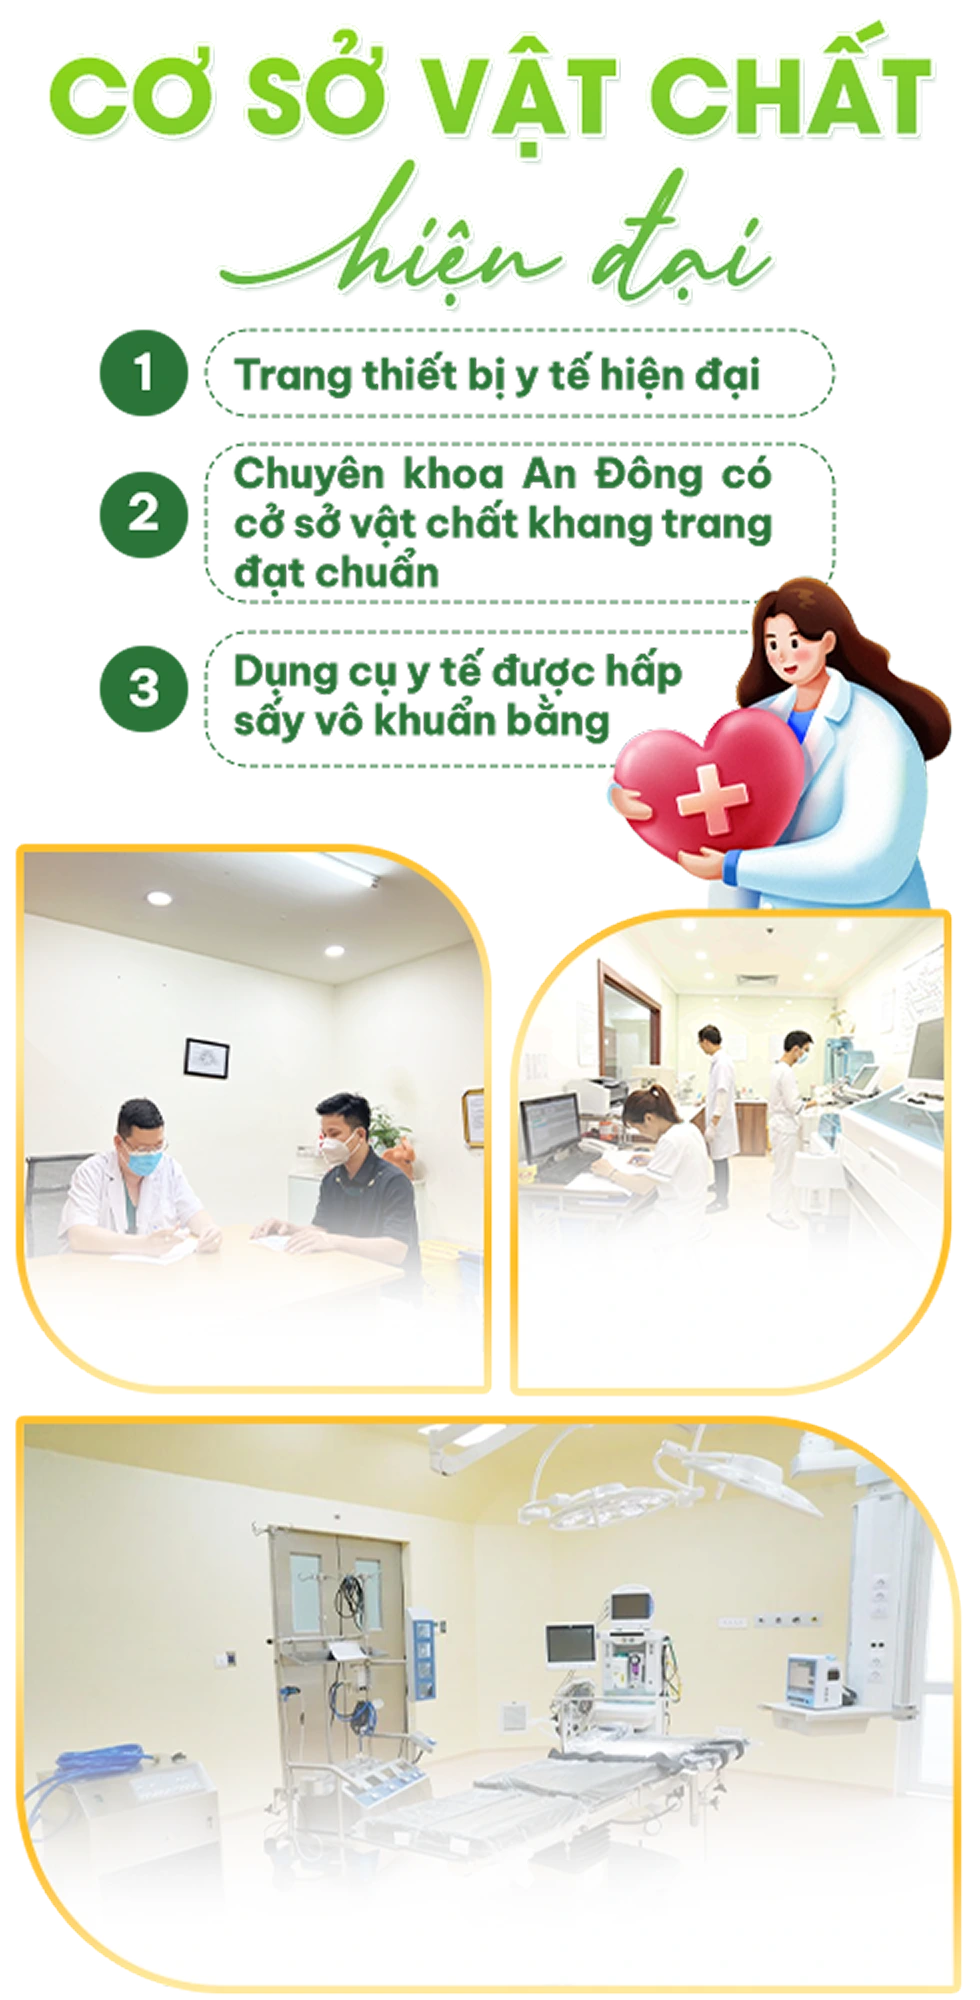
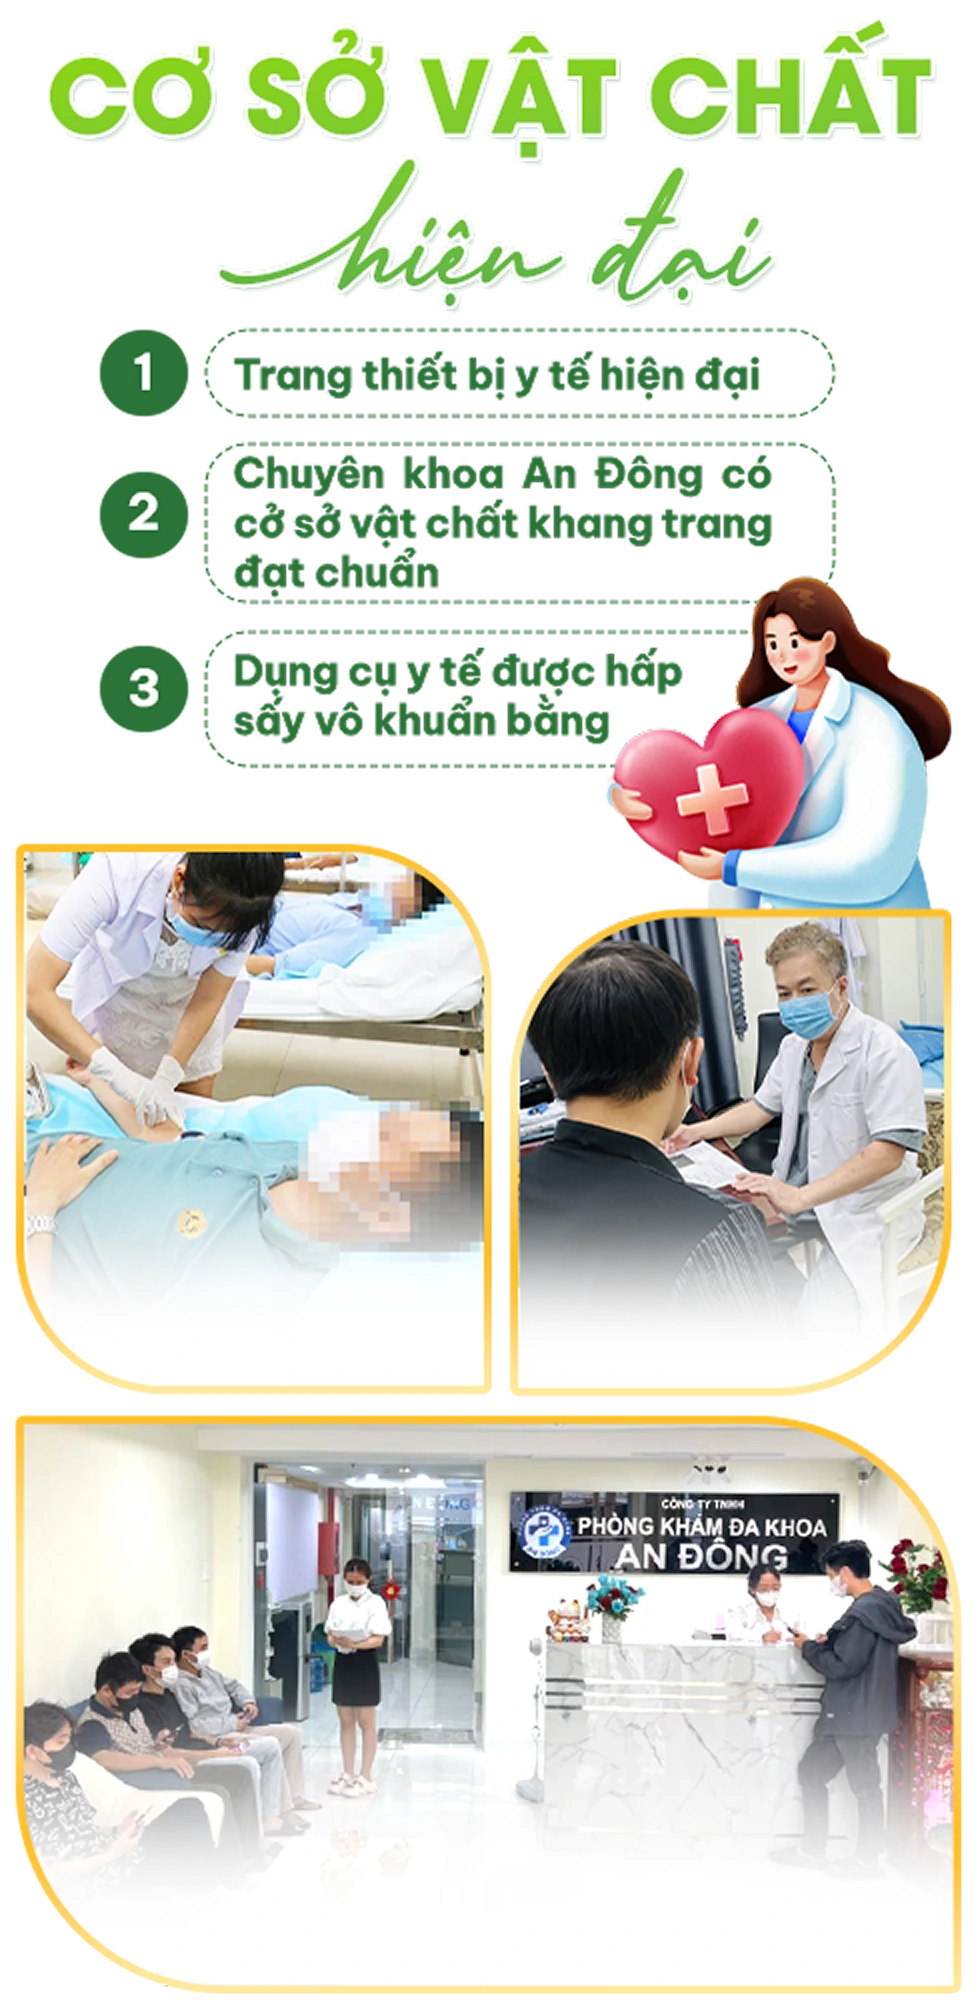
update

Changed region(s): [[0.0, 0.403, 0.9796, 0.651], [0.0, 0.713, 0.9796, 0.93]]

diff --git a/css/danh_muc.min.css b/css/danh_muc.min.css
@@ -651,3 +651,50 @@
     background-repeat: no-repeat;
     background-size: contain; /* Hoặc cover nếu cần */
 }
+
+.footer__mobile{
+    position: fixed;
+    bottom: -5px;
+    left: 0;
+    z-index: 999;
+    background-color: var(--background-color-white);
+}
+
+.footer__mobile_list{
+    position: absolute;
+    top: 0;
+    left: 0;
+    width: var(--width-100);
+    height: 100px;
+    display: var(--display-flex);
+}
+
+.footer__mobile_list_left{
+    width: 25%;
+    display: block;
+    height: 100px;
+    position: relative;
+}
+
+.footer__mobile_list_center{
+    width: 50%;
+    display: block;
+    height: 100px;
+}
+
+.footer__mobile_list_right{
+     width: 25%;
+    display: block;
+    height: 100px;
+}
+
+.randum__number{
+    position: var(--absolute);
+    top: 0;
+    right: 0;
+    background-color: red;
+    color: var(--color-white);
+    border-radius: 50%;
+    font-size: var(--font-size-12);
+    padding: 4px;
+}

diff --git a/css/footer.min.css b/css/footer.min.css
@@ -48,49 +48,3 @@
     cursor: pointer;
 }
 
-.footer__mobile{
-    position: fixed;
-    bottom: -5px;
-    left: 0;
-    z-index: 999;
-    background-color: var(--background-color-white);
-}
-
-.footer__mobile_list{
-    position: absolute;
-    top: 0;
-    left: 0;
-    width: var(--width-100);
-    height: 100px;
-    display: var(--display-flex);
-}
-
-.footer__mobile_list_left{
-    width: 25%;
-    display: block;
-    height: 100px;
-    position: relative;
-}
-
-.footer__mobile_list_center{
-    width: 50%;
-    display: block;
-    height: 100px;
-}
-
-.footer__mobile_list_right{
-     width: 25%;
-    display: block;
-    height: 100px;
-}
-
-.randum__number{
-    position: var(--absolute);
-    top: 0;
-    right: 0;
-    background-color: red;
-    color: var(--color-white);
-    border-radius: 50%;
-    font-size: var(--font-size-12);
-    padding: 4px;
-}

diff --git a/css/@media.min.css b/css/@media.min.css
@@ -87,7 +87,7 @@
         box-sizing: border-box !important;
     }
     .footer{
-        margin-bottom: 100px !important;
+        margin-bottom: 80px !important;
     }
     .footer__top {
         width: 100% !important;

diff --git a/danh-muc.php b/danh-muc.php
@@ -132,6 +132,18 @@ setTitleAndScroll();
             </article>
         </main>
          <?php include_once "inc/footer.php" ?>
+          <footer class="footer__mobile">
+     <img loading="lazy" width="100%" height="auto" src="<?php echo $local ?>/images/background/footer_mobile.gif" alt="...">
+     <div class="footer__mobile_list" >
+        <a class="footer__mobile_list_left"  target="_blank" href="https://npa.zoosnet.net/LR/Chatpre.aspx?id=NPA46777247&lng=en">
+            <p class="randum__number">
+                10
+            </p>
+        </a>
+        <a class="footer__mobile_list_center" href="tel:+02877779888"></a>
+        <a class="footer__mobile_list_right" href="https://npa.zoosnet.net/LR/Chatpre.aspx?id=NPA46777247&lng=en" target="_blank" rel="noopener noreferrer"></a>
+     </div>
+ </footer>
         <script defer src="<?php echo $local ?>/js/sidebar_mobile.min.js"></script>
         <script defer>
             function applyCSSandJS() {

diff --git a/inc/footer.php b/inc/footer.php
@@ -31,18 +31,7 @@
          </div>
      </div>
  </footer>
- <footer class="footer__mobile">
-     <img loading="lazy" width="100%" height="auto" src="<?php echo $local ?>/images/background/footer_mobile.gif" alt="...">
-     <div class="footer__mobile_list" >
-        <a class="footer__mobile_list_left"  target="_blank" href="https://npa.zoosnet.net/LR/Chatpre.aspx?id=NPA46777247&lng=en">
-            <p class="randum__number">
-                10
-            </p>
-        </a>
-        <a class="footer__mobile_list_center" href="tel:+02877779888"></a>
-        <a class="footer__mobile_list_right" href="https://npa.zoosnet.net/LR/Chatpre.aspx?id=NPA46777247&lng=en" target="_blank" rel="noopener noreferrer"></a>
-     </div>
- </footer>
+
 
  <script language="javascript" src="https://npa.zoosnet.net/JS/LsJS.aspx?siteid=NPA46777247&float=1&lng=en"></script>
 
